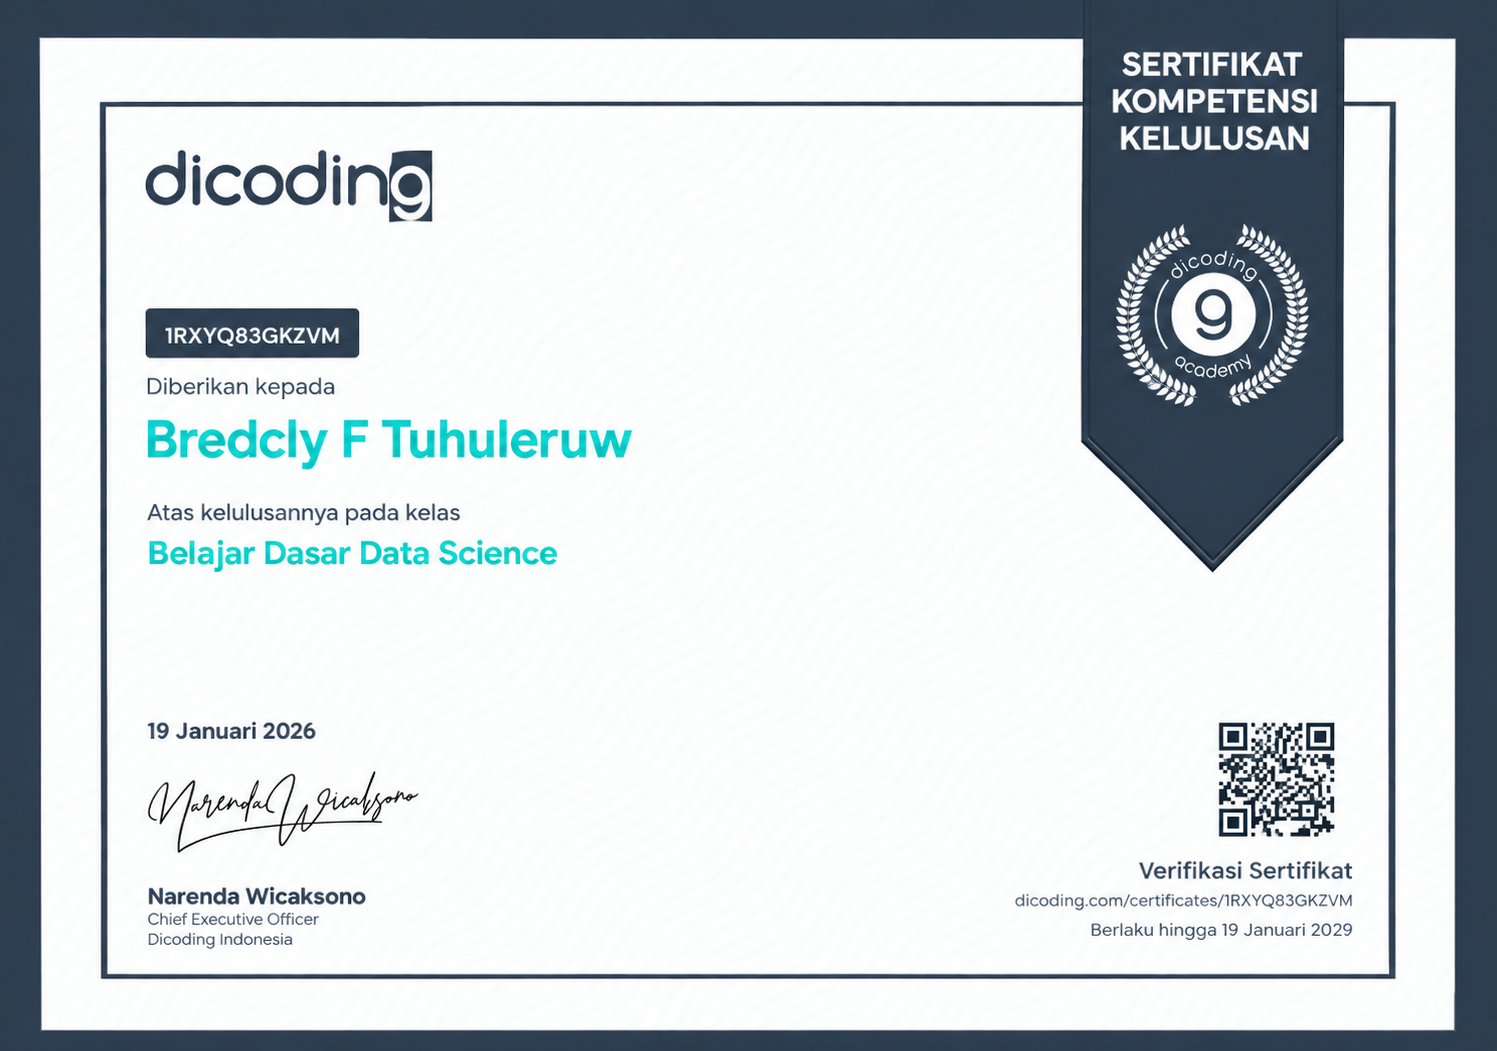
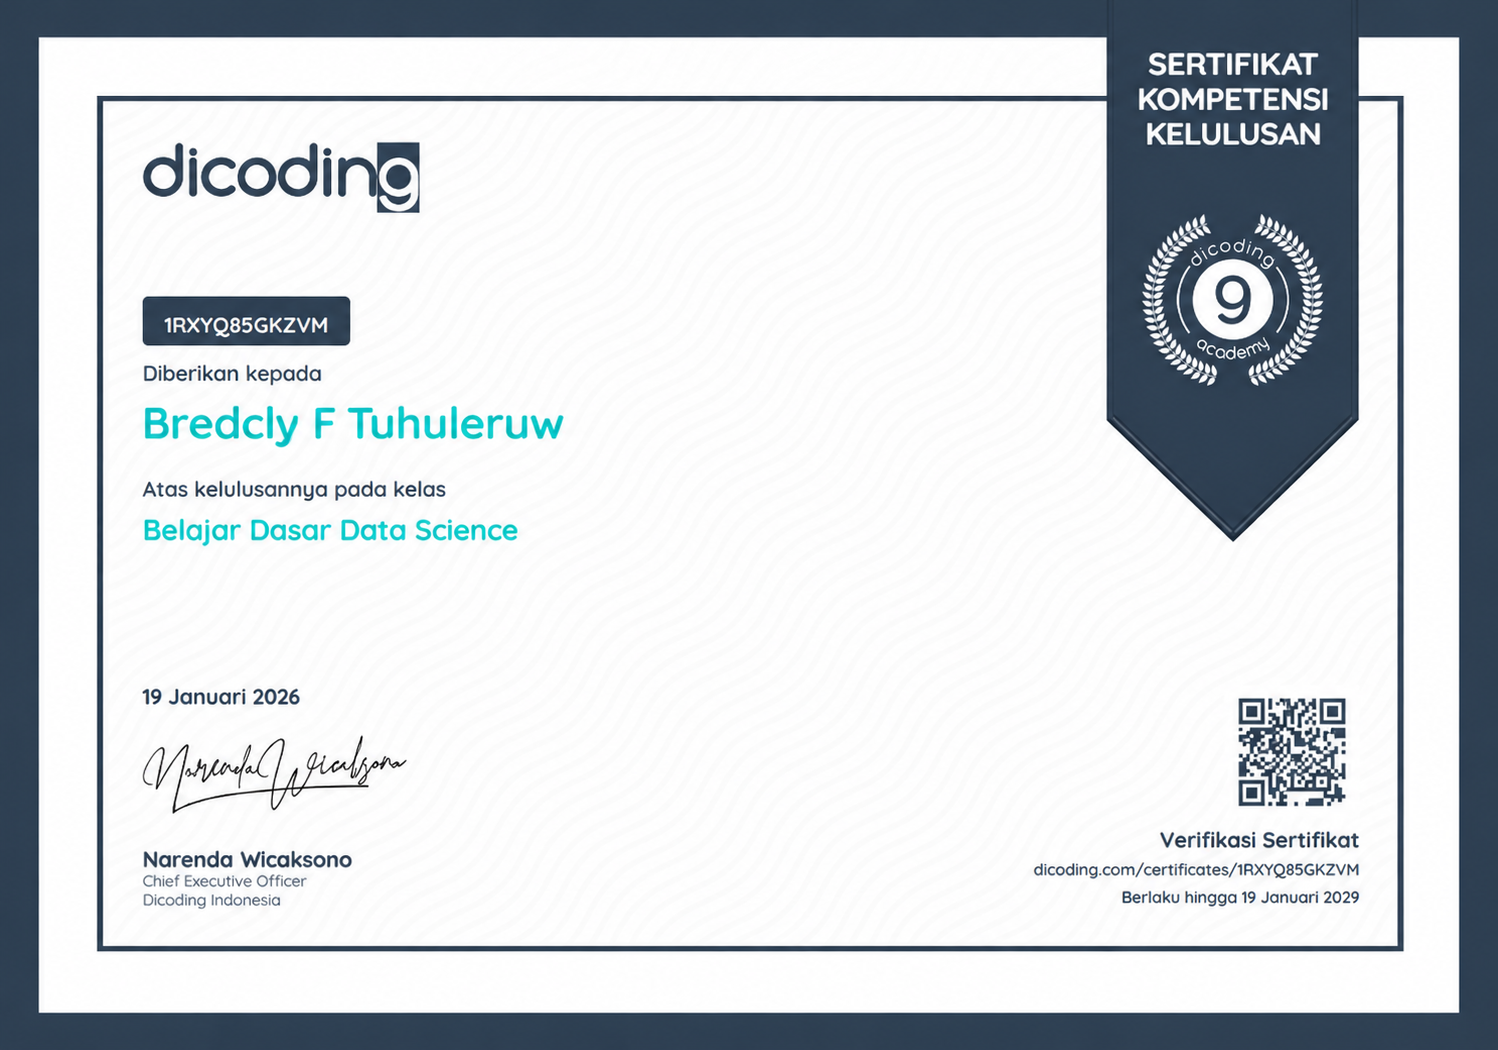
feat: add cinematic PageReveal entrance animation & upload new certificates
- Add PageReveal component: flash → scan sweep → HUD brackets → crosshair pulse
- Upgrade hero-enter animation with blur + scale for more dramatic entrance
- Improve scroll-reveal with blur transition effect
- Update dicoding-dasar-data-science.png certificate (new version)
- Add gdgoc-ub-community-member.png certificate (GDGoC UB 2025-2026)

Changed region(s): [[0.0307, 0.0305, 0.9833, 1.0], [0.9526, 0.0305, 0.9833, 0.061], [0.8604, 0.4267, 0.8911, 0.4571]]

diff --git a/src/assets/styles/index.css b/src/assets/styles/index.css
@@ -433,14 +433,18 @@ body.dark ::-webkit-scrollbar-thumb:hover {
 
 .scroll-reveal {
   opacity: 0;
-  transform: translateY(24px);
-  transition: opacity 650ms ease, transform 650ms ease;
-  will-change: opacity, transform;
+  transform: translateY(32px) scale(0.985);
+  filter: blur(3px);
+  transition: opacity 700ms cubic-bezier(0.22, 1, 0.36, 1),
+              transform 700ms cubic-bezier(0.22, 1, 0.36, 1),
+              filter 600ms ease;
+  will-change: opacity, transform, filter;
 }
 
 .scroll-reveal.is-visible {
   opacity: 1;
-  transform: translateY(0);
+  transform: translateY(0) scale(1);
+  filter: blur(0);
 }
 
 .hero-profile,
@@ -448,7 +452,7 @@ body.dark ::-webkit-scrollbar-thumb:hover {
 .hero-role,
 .hero-location,
 .hero-actions {
-  animation: hero-enter 650ms cubic-bezier(0.22, 1, 0.36, 1) both;
+  animation: hero-enter 750ms cubic-bezier(0.22, 1, 0.36, 1) both;
 }
 
 .profile-photo-clean {
@@ -465,15 +469,94 @@ body.dark ::-webkit-scrollbar-thumb:hover {
   .blob-cursor, .blob-cursor-canvas { display: none !important; }
 }
 
-.hero-profile { animation-delay: 80ms; }
-.hero-name { animation-delay: 180ms; }
-.hero-role { animation-delay: 260ms; }
-.hero-location { animation-delay: 340ms; }
-.hero-actions { animation-delay: 440ms; }
+.hero-profile { animation-delay: 320ms; }
+.hero-name    { animation-delay: 420ms; }
+.hero-role    { animation-delay: 520ms; }
+.hero-location{ animation-delay: 610ms; }
+.hero-actions { animation-delay: 720ms; }
 
 @keyframes hero-enter {
-  from { opacity: 0; transform: translateY(14px); }
-  to { opacity: 1; transform: translateY(0); }
+  from { opacity: 0; transform: translateY(20px) scale(0.98); filter: blur(4px); }
+  to   { opacity: 1; transform: translateY(0)   scale(1);    filter: blur(0); }
+}
+
+/* ─────────────────────────────────────────────────────────
+   PAGE REVEAL — cinematic entrance FX overlay
+   Fires once right after the preloader curtain opens.
+───────────────────────────────────────────────────────── */
+.page-reveal-root {
+  position: fixed;
+  inset: 0;
+  z-index: 90;
+  pointer-events: none;
+  overflow: hidden;
+}
+
+.page-reveal-flash {
+  position: absolute;
+  inset: 0;
+  background: #ffffff;
+  mix-blend-mode: screen;
+}
+
+.page-reveal-scan {
+  position: absolute;
+  left: 0;
+  right: 0;
+  height: 3px;
+  background: linear-gradient(
+    90deg,
+    transparent 0%,
+    rgba(255,255,255,0) 10%,
+    rgba(255,255,255,0.95) 50%,
+    rgba(255,255,255,0) 90%,
+    transparent 100%
+  );
+  box-shadow:
+    0 0 18px 6px rgba(255,255,255,0.55),
+    0 0 60px 20px rgba(200,220,255,0.18);
+  filter: blur(0.5px);
+}
+
+.page-reveal-bracket {
+  position: absolute;
+  width: 36px;
+  height: 36px;
+  border-color: rgba(255,255,255,0.85);
+  border-style: solid;
+  border-width: 0;
+}
+@media (min-width: 768px) {
+  .page-reveal-bracket { width: 52px; height: 52px; }
+}
+
+.page-reveal-bracket-tl { top: 24px;    left: 24px;  border-top-width: 1.5px;    border-left-width:  1.5px; }
+.page-reveal-bracket-tr { top: 24px;    right: 24px; border-top-width: 1.5px;    border-right-width: 1.5px; }
+.page-reveal-bracket-bl { bottom: 24px; left: 24px;  border-bottom-width: 1.5px; border-left-width:  1.5px; }
+.page-reveal-bracket-br { bottom: 24px; right: 24px; border-bottom-width: 1.5px; border-right-width: 1.5px; }
+
+.page-reveal-crosshair {
+  position: absolute;
+  left: 50%;
+  top: 50%;
+  translate: -50% -50%;
+  width: min(55vw, 22rem);
+  height: min(55vw, 22rem);
+  border: 1px solid rgba(255,255,255,0.35);
+  border-radius: 50%;
+  box-shadow: 0 0 40px 8px rgba(255,255,255,0.08);
+}
+.page-reveal-crosshair::before,
+.page-reveal-crosshair::after {
+  content: "";
+  position: absolute;
+  background: rgba(255,255,255,0.28);
+}
+.page-reveal-crosshair::before { left: 50%; top: 0; bottom: 0; width: 1px; }
+.page-reveal-crosshair::after  { top: 50%; left: 0; right: 0;  height: 1px; }
+
+@media (prefers-reduced-motion: reduce) {
+  .page-reveal-root { display: none; }
 }
 
 @keyframes rb-blur-reveal {

diff --git a/src/components/PageReveal.jsx b/src/components/PageReveal.jsx
@@ -1,0 +1,97 @@
+import { useEffect, useRef, useState } from "react";
+import { motion as Motion, AnimatePresence } from "motion/react";
+
+/**
+ * PageReveal — cinematic entrance animation that fires once after the
+ * preloader hands control to the page.  It layers three FX passes:
+ *   1. Full-screen white FLASH (instant, then fades out)
+ *   2. SCAN SWEEP — a bright horizontal bar races top→bottom
+ *   3. Corner HUD brackets wipe into the four screen corners then fade
+ * The whole sequence completes in ~1.4 s.
+ */
+function PageReveal({ trigger }) {
+  const [visible, setVisible] = useState(false);
+  const [phase, setPhase] = useState("idle"); // idle → flash → scan → hud → done
+  const fired = useRef(false);
+
+  useEffect(() => {
+    if (!trigger || fired.current) return;
+    if (window.matchMedia("(prefers-reduced-motion: reduce)").matches) return;
+    fired.current = true;
+    setVisible(true);
+    setPhase("flash");
+
+    const t1 = setTimeout(() => setPhase("scan"),  120);
+    const t2 = setTimeout(() => setPhase("hud"),   480);
+    const t3 = setTimeout(() => setPhase("done"),  1350);
+    const t4 = setTimeout(() => setVisible(false), 1500);
+
+    return () => [t1, t2, t3, t4].forEach(clearTimeout);
+  }, [trigger]);
+
+  return (
+    <AnimatePresence>
+      {visible && (
+        <Motion.div
+          key="page-reveal"
+          className="page-reveal-root"
+          aria-hidden="true"
+          initial={{ opacity: 1 }}
+          exit={{ opacity: 0, transition: { duration: 0.18 } }}
+        >
+          {/* ── 1. FLASH ── */}
+          <Motion.div
+            className="page-reveal-flash"
+            initial={{ opacity: 1 }}
+            animate={{ opacity: phase === "flash" ? [1, 0.6, 0] : 0 }}
+            transition={{ duration: 0.38, ease: "easeOut" }}
+          />
+
+          {/* ── 2. SCAN SWEEP ── */}
+          {(phase === "scan" || phase === "hud") && (
+            <Motion.div
+              className="page-reveal-scan"
+              initial={{ top: "-4%" }}
+              animate={{ top: "104%" }}
+              transition={{ duration: 0.42, ease: [0.4, 0, 0.2, 1] }}
+            />
+          )}
+
+          {/* ── 3. HUD corner brackets ── */}
+          {(phase === "hud" || phase === "done") && (
+            <>
+              {["tl", "tr", "bl", "br"].map((pos, i) => (
+                <Motion.div
+                  key={pos}
+                  className={`page-reveal-bracket page-reveal-bracket-${pos}`}
+                  initial={{ opacity: 0, scale: 0.72 }}
+                  animate={{
+                    opacity: phase === "done" ? 0 : 1,
+                    scale:   phase === "done" ? 1.08 : 1,
+                  }}
+                  transition={{
+                    delay:    i * 0.055,
+                    duration: phase === "done" ? 0.35 : 0.22,
+                    ease:     "easeOut",
+                  }}
+                />
+              ))}
+              {/* centre crosshair pulse */}
+              <Motion.div
+                className="page-reveal-crosshair"
+                initial={{ opacity: 0, scale: 0.5 }}
+                animate={{
+                  opacity: phase === "done" ? 0 : [0, 0.7, 0.5],
+                  scale:   phase === "done" ? 1.4 : [0.5, 1, 0.9],
+                }}
+                transition={{ duration: phase === "done" ? 0.4 : 0.35, ease: "easeOut" }}
+              />
+            </>
+          )}
+        </Motion.div>
+      )}
+    </AnimatePresence>
+  );
+}
+
+export default PageReveal;

diff --git a/src/App.jsx b/src/App.jsx
@@ -10,6 +10,7 @@ import StickyHeader from "./components/StickyHeader";
 import { useRef } from "react";
 import BlobCursor from "./components/BlobCursor";
 import Preloader from "./components/Preloader";
+import PageReveal from "./components/PageReveal";
 import { motion as Motion } from "motion/react";
 
 function App() {
@@ -52,6 +53,7 @@ function App() {
   return (
     <>
       <Preloader onComplete={handlePreloaderComplete} />
+      <PageReveal trigger={pageReady} />
       <div className="fixed inset-0 z-[60] hidden pointer-events-none md:block">
         <BlobCursor
           material="ink"
@@ -67,9 +69,13 @@ function App() {
       </div>
       <StickyHeader sentinelRef={heroRef} />
       <Motion.div
-        initial={{ opacity: 0, y: 18 }}
-        animate={{ opacity: pageReady ? 1 : 0, y: pageReady ? 0 : 18 }}
-        transition={{ duration: 0.75, ease: [0.22, 1, 0.36, 1], delay: 0.12 }}
+        initial={{ opacity: 0, y: 28, filter: "blur(6px)" }}
+        animate={{
+          opacity: pageReady ? 1 : 0,
+          y: pageReady ? 0 : 28,
+          filter: pageReady ? "blur(0px)" : "blur(6px)",
+        }}
+        transition={{ duration: 0.85, ease: [0.22, 1, 0.36, 1], delay: 0.18 }}
         className={`${darkMode ? "bg-[#0e0e11] text-gray-200" : "bg-white"} app-shell w-full flex flex-col
         gap-5 px-1 md:px-[100px] lg:px-[200px] xl:px-[300px] 2xl:px-[450px] py-6 md:py-8 lg:py-10`}
       >
